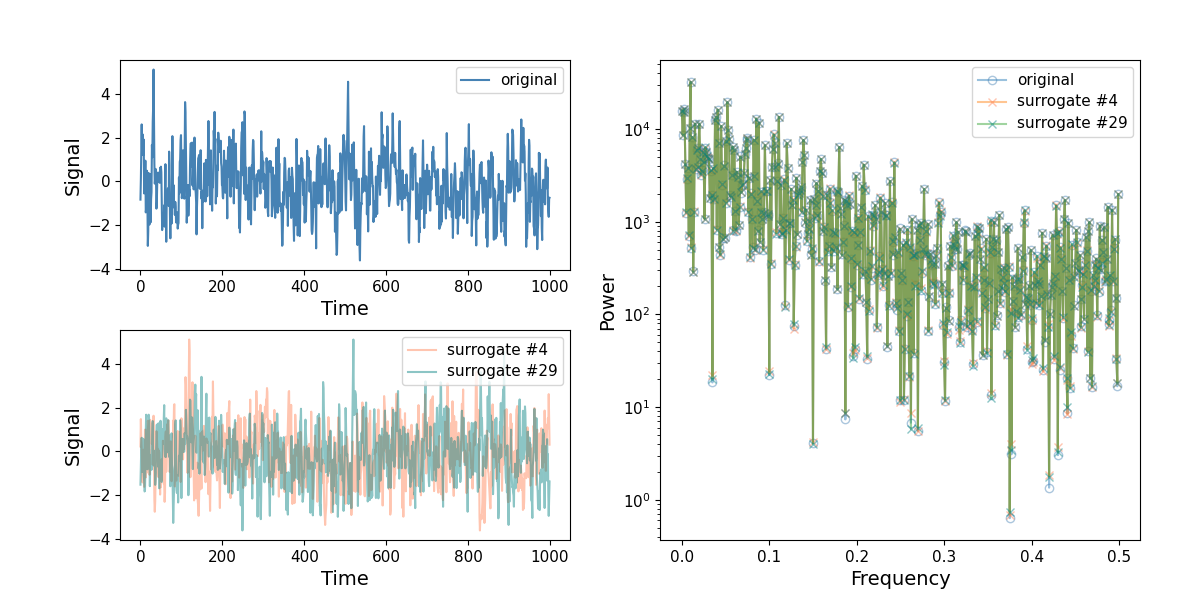
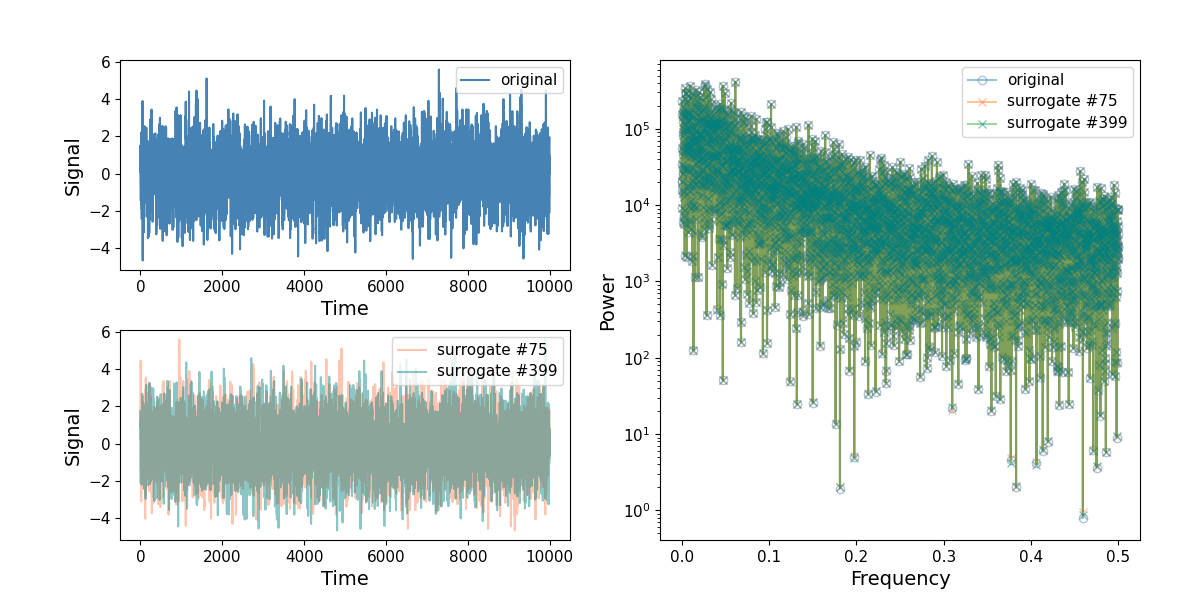
update example; test for optimisation

diff --git a/iaaft.py b/iaaft.py
@@ -14,7 +14,7 @@ iaaft - Iterative amplitude adjusted Fourier transform surrogates
 
 """
 # Created: Tue Jun 22, 2021  09:44am
-# Last modified: Tue Jun 22, 2021  10:47am
+# Last modified: Tue Jun 22, 2021  11:58am
 #
 # Copyright (C) 2021  Bedartha Goswami <bedartha.goswami@uni-tuebingen.de> This
 # program is free software: you can redistribute it and/or modify it under the
@@ -34,23 +34,39 @@ iaaft - Iterative amplitude adjusted Fourier transform surrogates
 
 import numpy as np
 from tqdm import tqdm
-from pyfftw.interfaces.scipy_fftpack import fft, ifft
-from numba import jit
 
+@profile
+def surrogates(x, ns, TOL_PC=5., verbose=True):
+    """
+    Returns iAAFT surrogates of given time series.
 
-def surrogates(x, ns, verbose=False, TOL_PC=5.):
-    """Returns NSURR number of iAAFT surrogates of given data"""
+    Parameter
+    ---------
+    x : numpy.ndarray, with shape (N,)
+        Input time series for which IAAFT surrogates are to be estimated.
+    ns : int
+        Number of surrogates to be generated.
+    tol_pc : float
+        Tolerance (in percent) level which decides the extent to which the
+        difference in the power spectrum of the surrogates to the original
+        power spectrum is allowed.
+    verbose : bool
+        Show progress bar (default = `True`).
+
+    Returns
+    -------
+    xs : numpy.ndarray, with shape (ns, N)
+        Array containing the IAAFT surrogates of `x` such that each row of `xs`
+        is an individual surrogate time series.
+    """
     # as per the steps given in Lancaster et al., Phys. Rep (2018)
     nx = x.shape[0]
     xs = np.zeros((ns, nx))
     MAX_ITER = 10000
     ii = np.arange(nx)
 
-    # allocate functions to local variables to save function call overhead
-    npexp = np.exp
-
     # get the fft of the original array
-    x_amp = np.abs(fft(x))
+    x_amp = np.abs(np.fft.fft(x))
     x_srt = np.sort(x)
     r_orig = np.argsort(x)
 
@@ -73,10 +89,10 @@ def surrogates(x, ns, verbose=False, TOL_PC=5.):
             # replacing the amplitudes with the original amplitudes but
             # keeping the angles from the FFT-ed version of the random
             y_prev = z_n
-            fft_prev = fft(y_prev)
-            phi_prev = jitangle(fft_prev)
-            e_i_phi = jitexp(phi_prev * 1j)
-            z_n = ifft(x_amp * e_i_phi)
+            fft_prev = np.fft.fft(y_prev)
+            phi_prev = np.angle(fft_prev)
+            e_i_phi = np.exp(phi_prev * 1j)
+            z_n = np.fft.ifft(x_amp * e_i_phi)
 
             # 3) rescale zk to the original distribution of x
             r_curr = np.argsort(z_n)
@@ -93,20 +109,5 @@ def surrogates(x, ns, verbose=False, TOL_PC=5.):
         xs[k] = np.real(z_n)
 
     return xs
-
-
-@jit
-def jitangle(arr):
-    """angle"""
-    return np.angle(arr)
-
-
-@jit
-def jitexp(arr):
-    """exp"""
-    return np.exp(arr)
-
-
-
 
 

diff --git a/example.py b/example.py
@@ -5,8 +5,8 @@ Example usage of the IAAFT time series surrogates algorithm
 ===========================================================
 
 """
-# Last modified: Tue Jun 22, 2021  10:46am
-# Last modified: Tue Jun 22, 2021  10:46am
+# Last modified: Tue Jun 22, 2021  11:56am
+# Last modified: Tue Jun 22, 2021  11:56am
 #
 # Copyright (C) 2021  Bedartha Goswami <bedartha.goswami@uni-tuebingen.de> This
 # program is free software: you can redistribute it and/or modify it under the
@@ -25,11 +25,10 @@ Example usage of the IAAFT time series surrogates algorithm
 
 import numpy as np
 import matplotlib.pyplot as pl
-from pyfftw.interfaces.scipy_fftpack import fft, ifft
 import iaaft
 
 # generate an initial time series with AR(1) memory
-n = 1000
+n = 10000
 beta = 0.65
 eps = np.random.randn(n)
 x = np.zeros(n)
@@ -38,17 +37,17 @@ for i in range(1, n):
     x[i] = beta * x[i-1] + eps[i]
 
 # estimate the power spectra of the initial time series
-p = np.square(np.abs(fft(x)))
+p = np.square(np.abs(np.fft.fft(x)))
 freq = np.fft.fftfreq(n)
 
 # estimate 100 IAAFT surrogates
-ns = 100
+ns = 1000
 xs = iaaft.surrogates(x=x, ns=ns, verbose=True)
 
 # estimate the power spectra of the surrogates
 ps = np.zeros((ns, freq.shape[0]))
 for i in range(ns):
-    ps[i] = np.square(np.abs(fft(xs[i])))
+    ps[i] = np.square(np.abs(np.fft.fft(xs[i])))
 
 # plot the results
 ## set up the figure
